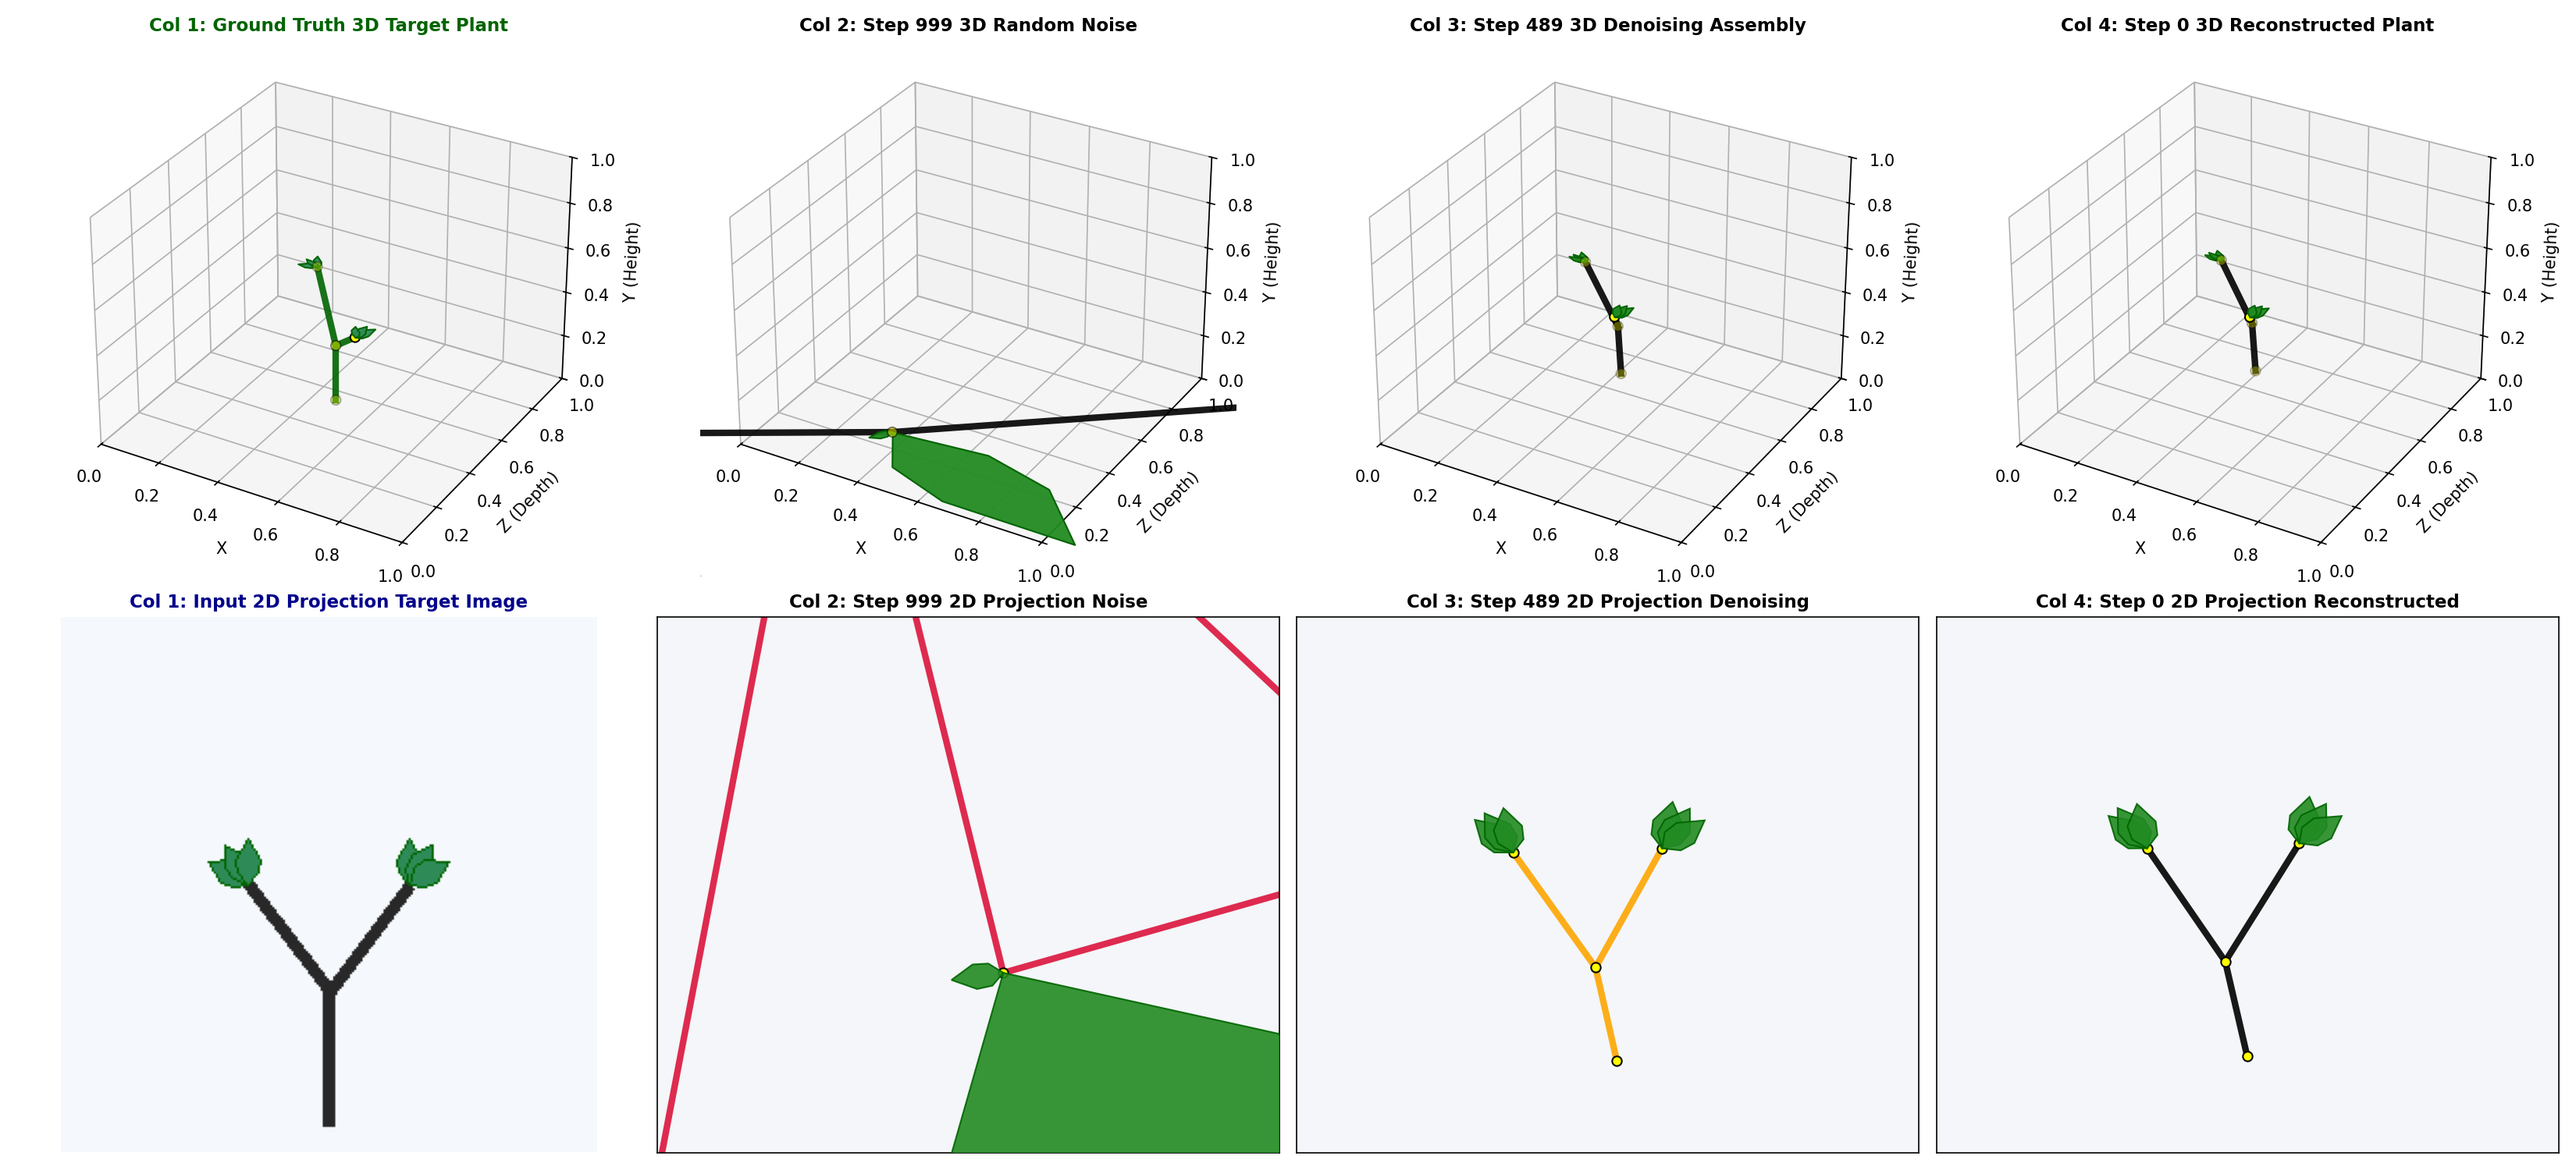
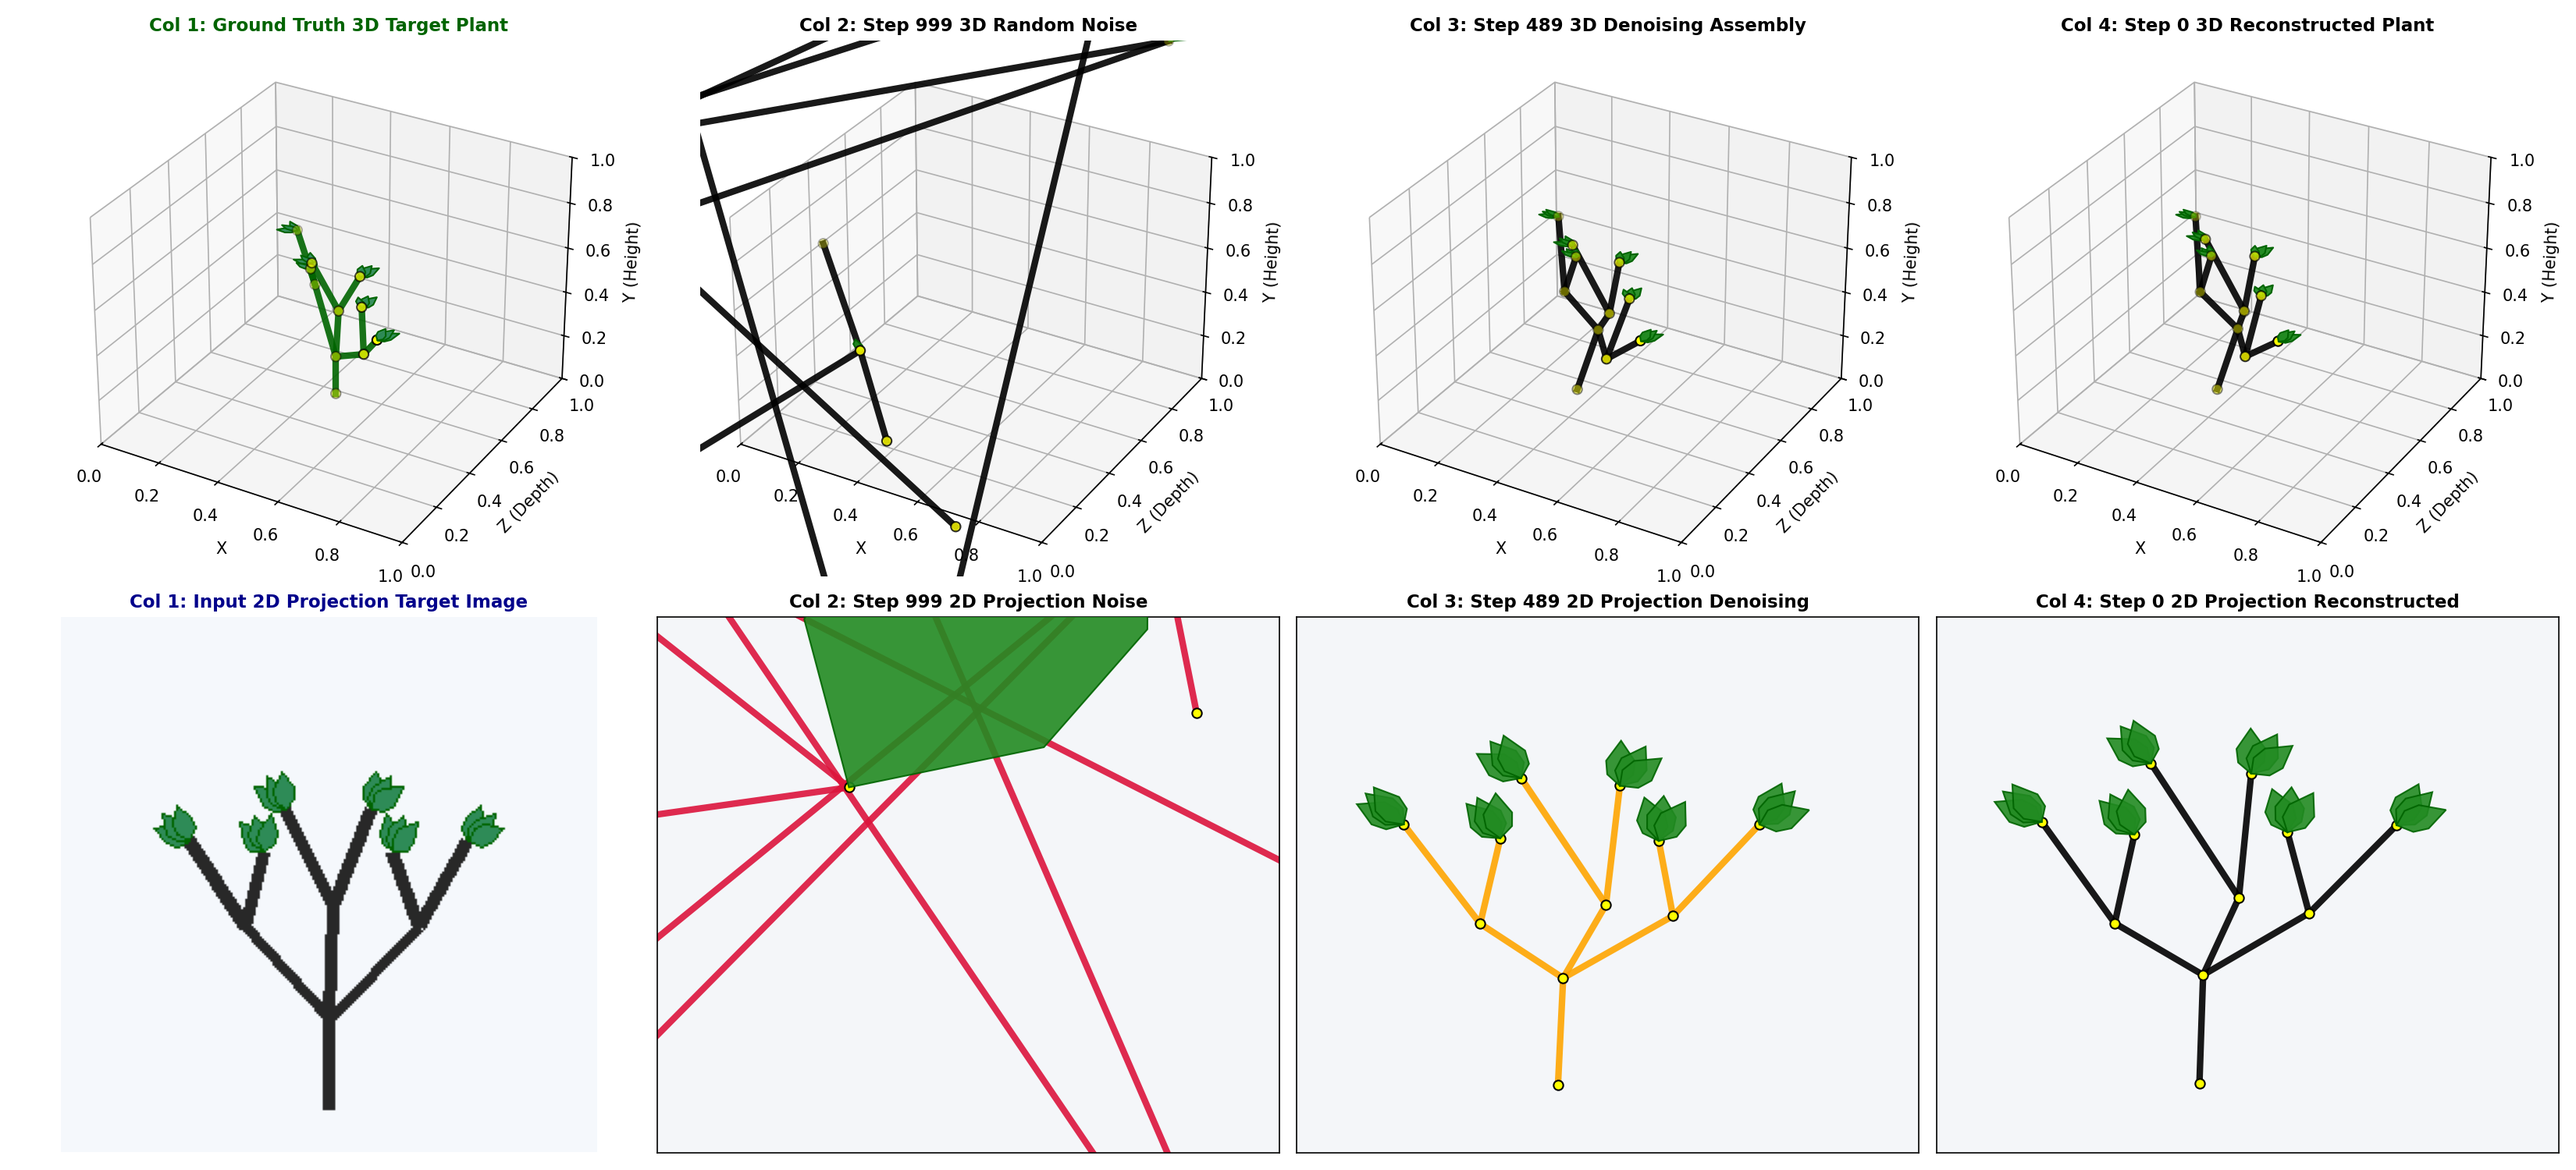
Support complex multi-level 3D plant structures (29 nodes, 11 stems, 18 skyward leaves across 6 terminal tips)

diff --git a/dataset/plant3d_dataset.py b/dataset/plant3d_dataset.py
@@ -32,55 +32,77 @@ class Plant3DDataset(Dataset):
             parents = np.zeros(self.max_nodes, dtype=np.int64)
             existence = np.zeros(self.max_nodes, dtype=np.float32)
 
-            # Generate 3D Botanical Plant Structure
-            # Node 0: Trunk Base (x=0.5, y=0.95, z=0.5)
-            nodes[0] = [0.5, 0.95, 0.5, 0.5, 0.5, 0.25, 0.0] # Stem
-            existence[0] = 1.0
-            parents[0] = 0
+    def _generate_synthetic_3d_plants(self):
+        np.random.seed(42)
+        
+        for idx in range(self.num_samples):
+            nodes = np.zeros((self.max_nodes, 7), dtype=np.float32) # (x, y, z, theta, phi, length, is_leaf)
+            adj_matrix = np.zeros((self.max_nodes, self.max_nodes), dtype=np.float32)
+            parents = np.zeros(self.max_nodes, dtype=np.int64)
+            existence = np.zeros(self.max_nodes, dtype=np.float32)
 
-            # Trunk top
-            nodes[1] = [0.5, 0.70, 0.5, 0.5, 0.5, 0.25, 0.0] # Stem
-            existence[1] = 1.0
-            parents[1] = 0
+            # Generate Complex Multi-Level 3D Botanical Plant Architecture
+            # Level 0: Trunk Base (Node 0) -> Trunk Junction (Node 1)
+            nodes[0] = [0.50, 0.92, 0.50, 0.5, 0.5, 0.20, 0.0]
+            existence[0] = 1.0; parents[0] = 0
+
+            nodes[1] = [0.50, 0.75, 0.50, 0.5, 0.5, 0.17, 0.0]
+            existence[1] = 1.0; parents[1] = 0
             adj_matrix[0, 1] = 1.0; adj_matrix[1, 0] = 1.0
 
-            # Branch 1 (3D Left Branch going forward +z)
-            nodes[2] = [0.35, 0.50, 0.65, 0.3, 0.6, 0.20, 0.0] # Stem
-            existence[2] = 1.0
-            parents[2] = 1
+            # Level 1: Main Branches from Trunk Junction Node 1 -> Nodes 2, 3, 4
+            # Random variations per sample for realistic variety
+            b_var = (np.random.rand(3) - 0.5) * 0.04
+            
+            nodes[2] = [0.35 + b_var[0], 0.58, 0.65 + b_var[0], 0.3, 0.6, 0.16, 0.0] # Left-Front Branch
+            existence[2] = 1.0; parents[2] = 1
             adj_matrix[1, 2] = 1.0; adj_matrix[2, 1] = 1.0
 
-            # Branch 2 (3D Right Branch going backward -z)
-            nodes[3] = [0.65, 0.50, 0.35, 0.7, 0.4, 0.20, 0.0] # Stem
-            existence[3] = 1.0
-            parents[3] = 1
+            nodes[3] = [0.65 + b_var[1], 0.58, 0.35 + b_var[1], 0.7, 0.4, 0.16, 0.0] # Right-Back Branch
+            existence[3] = 1.0; parents[3] = 1
             adj_matrix[1, 3] = 1.0; adj_matrix[3, 1] = 1.0
 
-            # --- Attach Triple Leaf Cluster (3 Leaves ONLY per Terminal End Tip Node: Node 2 & Node 3) ---
-            # Internal Fork Junction Node 1 HAS NO LEAVES!
-            # Terminal Tip Node 2 (Left Branch Tip): 3 Leaves (nodes 4, 5, 6) pointing UP & LEFT
-            # Terminal Tip Node 3 (Right Branch Tip): 3 Leaves (nodes 7, 8, 9) pointing UP & RIGHT
-            
-            leaf_idx = 4
-            tip_nodes = [2, 3] # Node 2 and Node 3 are the ONLY terminal end tip nodes!
-            tip_base_angles = [-120.0, -60.0] # Skyward pointing direction (-Y)
+            nodes[4] = [0.50 + b_var[2], 0.54, 0.50, 0.5, 0.5, 0.18, 0.0] # Center-Up Branch
+            existence[4] = 1.0; parents[4] = 1
+            adj_matrix[1, 4] = 1.0; adj_matrix[4, 1] = 1.0
+
+            # Level 2: Secondary Sub-Branches / Twigs from Level 1 Nodes -> Nodes 5..10
+            # Twigs from Node 2 (Left-Front)
+            nodes[5] = [0.24, 0.42, 0.72, 0.2, 0.7, 0.14, 0.0]; existence[5] = 1.0; parents[5] = 2; adj_matrix[2, 5] = 1.0; adj_matrix[5, 2] = 1.0
+            nodes[6] = [0.38, 0.44, 0.56, 0.4, 0.5, 0.14, 0.0]; existence[6] = 1.0; parents[6] = 2; adj_matrix[2, 6] = 1.0; adj_matrix[6, 2] = 1.0
+
+            # Twigs from Node 3 (Right-Back)
+            nodes[7] = [0.62, 0.44, 0.44, 0.6, 0.5, 0.14, 0.0]; existence[7] = 1.0; parents[7] = 3; adj_matrix[3, 7] = 1.0; adj_matrix[7, 3] = 1.0
+            nodes[8] = [0.76, 0.42, 0.28, 0.8, 0.3, 0.14, 0.0]; existence[8] = 1.0; parents[8] = 3; adj_matrix[3, 8] = 1.0; adj_matrix[8, 3] = 1.0
+
+            # Twigs from Node 4 (Center-Up)
+            nodes[9] = [0.42, 0.36, 0.50, 0.4, 0.5, 0.15, 0.0]; existence[9] = 1.0; parents[9] = 4; adj_matrix[4, 9] = 1.0; adj_matrix[9, 4] = 1.0
+            nodes[10] = [0.58, 0.36, 0.50, 0.6, 0.5, 0.15, 0.0]; existence[10] = 1.0; parents[10] = 4; adj_matrix[4, 10] = 1.0; adj_matrix[10, 4] = 1.0
+
+            # Stem Nodes total = 11 nodes (Nodes 0..10)
+            # Terminal End Tip Nodes = Nodes 5, 6, 7, 8, 9, 10 (Out-degree 0 stem tip nodes!)
+            # Internal Branch Junctions (Nodes 1, 2, 3, 4) HAVE NO LEAVES!
+
+            leaf_idx = 11
+            tip_nodes = [5, 6, 7, 8, 9, 10]
+            tip_base_angles = [-135.0, -105.0, -75.0, -45.0, -120.0, -60.0]
 
             for tip, base_deg in zip(tip_nodes, tip_base_angles):
-                # 3 Leaves attached in a skyward radial fan (-30 deg, 0 deg, +30 deg)
-                for fan_offset in [-30.0, 0.0, 30.0]:
+                # 3 Leaves attached per terminal end tip node in skyward fan (-25 deg, 0 deg, +25 deg)
+                for fan_offset in [-25.0, 0.0, 25.0]:
                     angle_deg = base_deg + fan_offset
                     rad = math.radians(angle_deg)
                     nodes[leaf_idx] = [
                         nodes[tip, 0], nodes[tip, 1], nodes[tip, 2],
                         math.cos(rad) * 0.5 + 0.5, math.sin(rad) * 0.5 + 0.5,
-                        0.12, 1.0 # Leaf type = 1.0
+                        0.10, 1.0 # Leaf type = 1.0
                     ]
                     existence[leaf_idx] = 1.0
                     parents[leaf_idx] = tip
                     adj_matrix[tip, leaf_idx] = 1.0; adj_matrix[leaf_idx, tip] = 1.0
                     leaf_idx += 1
 
-            num_active = leaf_idx
+            num_active = leaf_idx # 11 stems + 18 leaves = 29 nodes total!
 
             # Render 2D Perspective Projection Image of 3D Plant
             img = Image.new("RGB", (self.image_size, self.image_size), (245, 248, 252))

diff --git a/diffusion_based/eval/visualize_diffusion_3d.py b/diffusion_based/eval/visualize_diffusion_3d.py
@@ -150,7 +150,7 @@ def visualize_reconstruction_3d(image_tensor: torch.Tensor, results: Dict[str, A
         exist = data["existence_mask"]
         active_mask = (exist >= 0.5) if step_k == step_last else (exist >= 0.2)
         if not np.any(active_mask):
-            active_mask[:10] = True
+            active_mask[:29] = True
 
         draw_3d_plant_graph(ax3d, nodes, parents, active_mask, is_gt=False)
 
@@ -182,7 +182,7 @@ def visualize_reconstruction_3d(image_tensor: torch.Tensor, results: Dict[str, A
 
         active_mask = (exist >= 0.5) if step_k == step_last else (exist >= 0.2)
         if not np.any(active_mask):
-            active_mask[:10] = True
+            active_mask[:29] = True
         num_nodes = len(nodes)
 
         # Draw 2D projected stem edges
